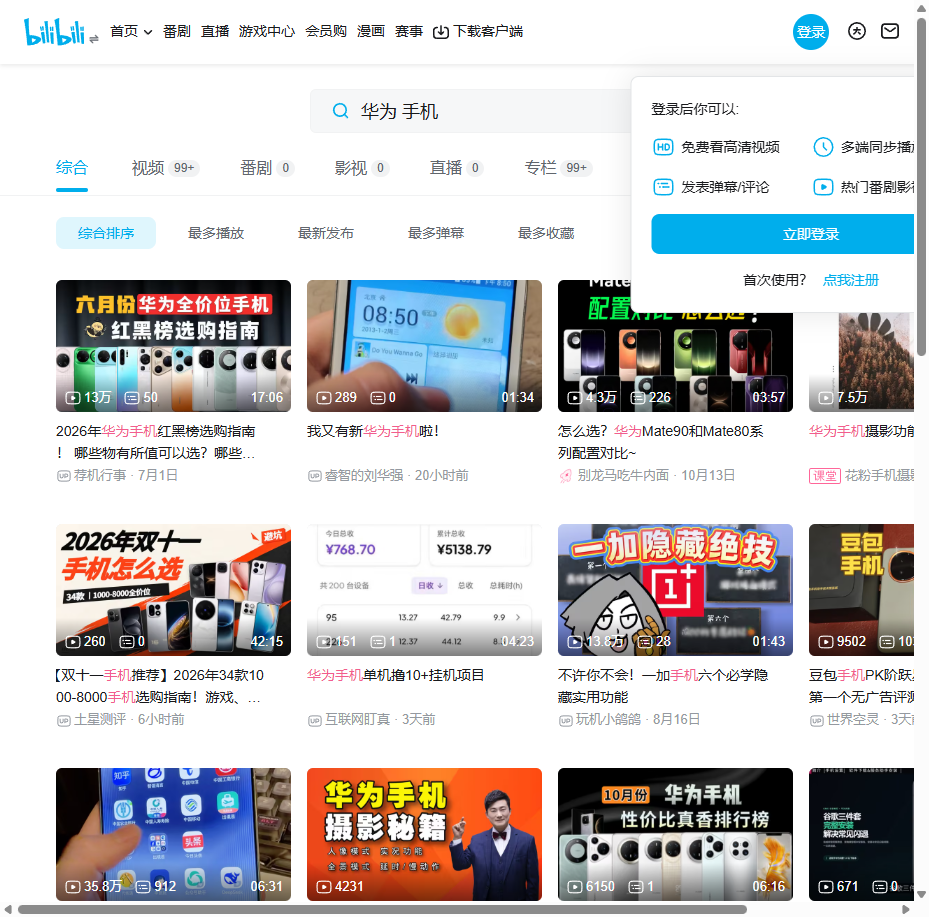
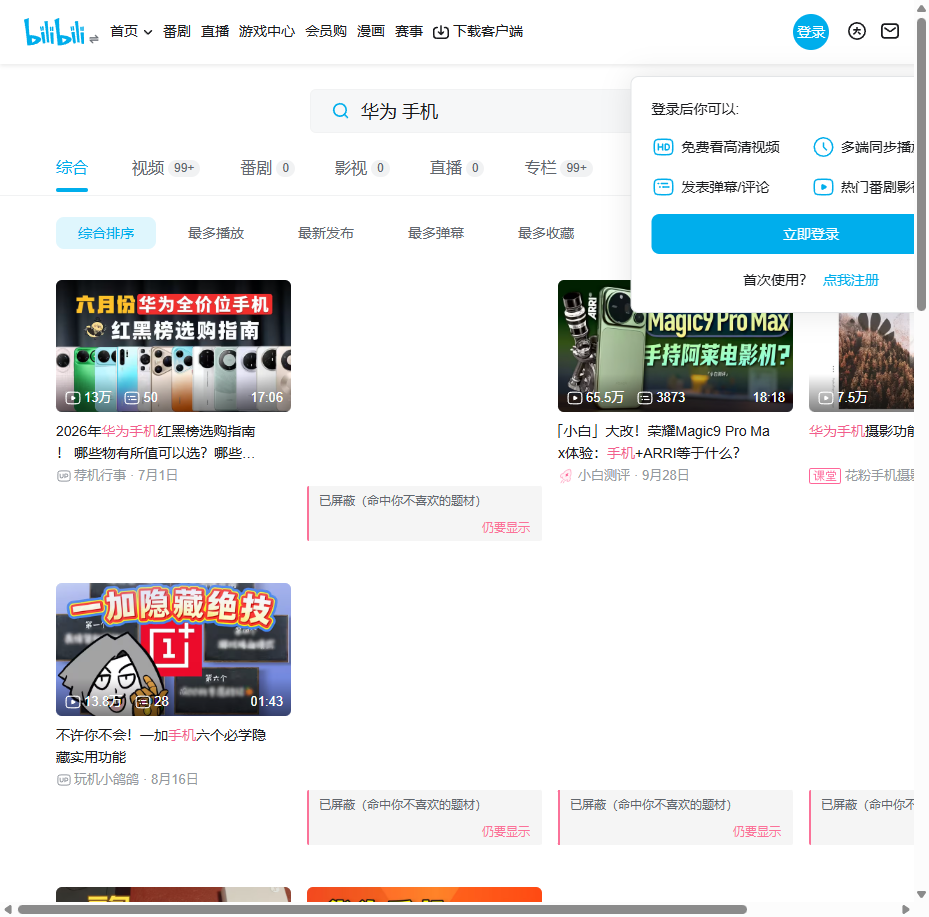
fix: 折叠改成「就地替换」，别在旁边插一条把布局挤歪
早先的实现是把卡片 `display:none` 掉，再把「已屏蔽（理由）/ 仍要显示」
插到**它旁边**。于是那条说明变成了网格里的**另一个单元**——
整排卡片被挤歪、错位，看起来像页面被插件搞乱了。

改成就地替换：卡片留在原来的位置，把它的内容换成说明。
撤销时把原内容还原回去。

顺带修了说明的排版：理由一行放不下时按钮换行右对齐，
不再从中间断字（「命中你不喜欢的题 材」）。

另外这轮补上了**三级闸门里从来没被真机验证过的一级**：
画像匹配（本地、零成本）。冷启动画像需要登录 B 站，
测试环境未登录 → 画像恒为 null → 整条「画像 → 折叠」路径没跑过。
现在用注入画像的方式验了：注入「不喜欢 华为」→ 37 张卡片全部折叠，
理由「命中你不喜欢的题材」，零 LLM 调用，撤销正常。

diff --git a/tests/unit/actions-fold.test.ts b/tests/unit/actions-fold.test.ts
@@ -31,11 +31,25 @@ const verdict: Verdict = {
 };
 
 describe('折叠动作', () => {
-  it('折叠后内容不可见', () => {
+  /**
+   * 折叠是**就地替换**：卡片留在原位，内容换成「理由 + 仍要显示」。
+   *
+   * 早先把卡片 `display:none` 掉、再把说明插到它旁边——
+   * 说明就变成了网格里的另一个单元，整排卡片被挤歪。
+   */
+  it('折叠后原内容不可见', () => {
+    const d = fixture();
+    applyFold(d, '111', verdict, () => {});
+    const content = d.querySelector('.reply-content') as HTMLElement;
+    expect(content.style.display).toBe('none');
+  });
+
+  it('折叠后说明行在原位（不是插在旁边当新单元）', () => {
     const d = fixture();
     applyFold(d, '111', verdict, () => {});
     const el = d.querySelector('.reply-item') as HTMLElement;
-    expect(el.style.display).toBe('none');
+    const notice = d.querySelector(`[data-ab-prefix="${CSS_PREFIX}-notice"]`);
+    expect(notice?.parentElement).toBe(el);
   });
 
   it('插入一条说明行', () => {
@@ -70,8 +84,8 @@ describe('折叠动作', () => {
     applyFold(d, '111', verdict, () => {});
     const btn = d.querySelector(`[data-ab-prefix="${CSS_PREFIX}-revoke"]`) as HTMLElement;
     btn.click();
-    const el = d.querySelector('.reply-item') as HTMLElement;
-    expect(el.style.display).not.toBe('none');
+    const content = d.querySelector('.reply-content') as HTMLElement;
+    expect(content.style.display).not.toBe('none');
   });
 
   it('撤销后说明行被移除', () => {
@@ -101,8 +115,12 @@ describe('折叠动作', () => {
     const ok = applyFold(d, 'BV1xx411c7mD', { ...verdict, itemId: 'BV1xx411c7mD' }, () => {});
     expect(ok).toBe(true);
     const card = d.querySelector('.bili-video-card') as HTMLElement;
-    expect(card.style.display).toBe('none');
+    // 卡片留在原位，内容收起来，说明就地显示
+    expect(card.style.display).not.toBe('none');
+    const link = card.querySelector('a') as HTMLElement;
+    expect(link.style.display).toBe('none');
     expect(d.querySelector(`[data-ab-prefix="${CSS_PREFIX}-notice"]`)?.textContent).toContain('在引战');
+    expect(d.querySelector(`[data-ab-prefix="${CSS_PREFIX}-notice"]`)?.parentElement).toBe(card);
   });
 
   it('视频卡片被折叠后也能撤销', () => {
@@ -112,7 +130,8 @@ describe('折叠动作', () => {
     const btn = d.querySelector(`[data-ab-prefix="${CSS_PREFIX}-revoke"]`) as HTMLElement;
     btn.click();
     expect(onRevoke).toHaveBeenCalledWith('BV1xx411c7mD');
-    expect((d.querySelector('.bili-video-card') as HTMLElement).style.display).not.toBe('none');
+    const link = d.querySelector('.bili-video-card a') as HTMLElement;
+    expect(link.style.display).not.toBe('none');
   });
 
   it('非法 id 不会拼进选择器，直接返回 false', () => {
@@ -124,6 +143,6 @@ describe('折叠动作', () => {
     const d = fixture();
     const body = d.body as HTMLElement;
     expect(applyFold(body, '111', verdict, () => {})).toBe(true);
-    expect((d.querySelector('.reply-item') as HTMLElement).style.display).toBe('none');
+    expect((d.querySelector('.reply-content') as HTMLElement).style.display).toBe('none');
   });
 });

diff --git a/src/actions/fold.ts b/src/actions/fold.ts
@@ -14,18 +14,19 @@ export function injectStyles(root: ParentNode): void {
   style.setAttribute('data-ab-prefix', STYLE_ID);
   style.textContent = `
 .${CSS_PREFIX}-notice {
-  display: flex; align-items: center; gap: 8px;
-  padding: 4px 10px; margin: 2px 0;
+  display: flex; flex-wrap: wrap; align-items: center; gap: 8px;
+  padding: 6px 10px; margin: 2px 0;
   font-size: 12px; line-height: 1.6;
   color: #61666d;
   background: rgba(0,0,0,.04);
   border-left: 2px solid #fb7299;
   border-radius: 2px;
 }
-.${CSS_PREFIX}-notice-reason { flex: 1; }
+.${CSS_PREFIX}-notice-reason { flex: 1 1 auto; min-width: 0; }
 .${CSS_PREFIX}-revoke {
   cursor: pointer; border: 0; background: transparent;
   color: #fb7299; font-size: 12px; padding: 0 2px;
+  margin-left: auto; flex: 0 0 auto;
 }
 .${CSS_PREFIX}-revoke:hover { text-decoration: underline; }
 .${CSS_PREFIX}-mark {
@@ -135,7 +136,11 @@ export function resolveTarget(root: ParentNode, itemId: string): Element | null 
 /**
  * 折叠一条内容，并插入「理由 + 仍要显示」。
  *
- * 点「仍要显示」→ 恢复可见 + 调用 onRevoke（上层写白名单）。
+ * **就地替换，不在旁边插一条**：把卡片藏掉、再把说明插到它旁边，
+ * 说明就变成了网格里的**另一个单元**——整排卡片会被挤歪、错位。
+ * 所以这里改成：卡片留在原来的位置，把它的内容换成「理由 + 仍要显示」。
+ *
+ * 点「仍要显示」→ 恢复原来的内容 + 调用 onRevoke（上层写白名单）。
  */
 export function applyFold(
   root: ParentNode,
@@ -150,11 +155,18 @@ export function applyFold(
   injectStyles(doc);
 
   const el = target as HTMLElement;
-  el.style.display = 'none';
 
   // 已经插过说明就不重复
   if (doc.querySelector(`[data-ab-prefix="${CSS_PREFIX}-notice"][data-item-id="${itemId}"]`)) {
     return true;
+  }
+
+  // 把原内容收起来（记住原样，撤销时要还原）
+  const hidden: HTMLElement[] = [];
+  for (const child of Array.from(el.children)) {
+    if (child.getAttribute('data-ab-prefix') === `${CSS_PREFIX}-notice`) continue;
+    hidden.push(child as HTMLElement);
+    (child as HTMLElement).style.display = 'none';
   }
 
   const notice = doc.createElement('div');
@@ -173,13 +185,13 @@ export function applyFold(
   btn.addEventListener('click', (e) => {
     e.preventDefault();
     e.stopPropagation();
-    el.style.display = '';
+    for (const c of hidden) c.style.display = '';
     notice.remove();
     onRevoke(itemId);
   });
 
   notice.appendChild(reason);
   notice.appendChild(btn);
-  el.parentNode?.insertBefore(notice, el);
+  el.appendChild(notice);
   return true;
 }

diff --git a/scripts/e2e-verify.ts b/scripts/e2e-verify.ts
@@ -149,6 +149,22 @@ async function main(): Promise<void> {
   const injected = await popupCdp.eval(`(async () => {
     await chrome.storage.local.set({ llmConfig: ${JSON.stringify(cfg)} });
     await chrome.storage.local.remove(['verdictCache', 'wordlistCache', 'blockedLog', 'profile']);
+    // 注入一份画像（可选）：验证「画像 → 折叠」这条路径——
+    // 冷启动画像需要登录 B 站，测试环境未登录，只能用注入的方式验。
+    const injectProfile = ${JSON.stringify(process.env.INJECT_PROFILE ?? '')};
+    if (injectProfile) {
+      const dislikes = injectProfile.split(',').map(s => s.trim()).filter(Boolean);
+      await chrome.storage.local.set({
+        profile: {
+          interests: [{ tag: '数码', weight: 0.8 }],
+          dislikes,
+          stanceHints: {},
+          topics: ['手机'],
+          updatedAt: new Date().toISOString(),
+          sampleCount: 10,
+        },
+      });
+    }
     // 模式切换（cocoon=信息茧房 / anti=反信息茧房）
     await new Promise((resolve) => {
       chrome.runtime.sendMessage(
@@ -166,9 +182,9 @@ async function main(): Promise<void> {
         () => { void chrome.runtime.lastError; resolve(null); },
       );
     });
-    const st = await chrome.storage.local.get(['llmConfig', 'settings']);
+    const st = await chrome.storage.local.get(['llmConfig', 'settings', 'profile']);
     const c = st['llmConfig'];
-    return JSON.stringify({ model: c.model, baseUrl: c.baseUrl, maxTokens: c.maxTokens, keyLen: (c.apiKey||'').length, mode: st['settings']?.mode });
+    return JSON.stringify({ model: c.model, baseUrl: c.baseUrl, maxTokens: c.maxTokens, keyLen: (c.apiKey||'').length, mode: st['settings']?.mode, profileDislikes: st['profile']?.dislikes ?? null });
   })()`);
   log('LLM 配置已注入: ' + injected);
   popupCdp.close();

diff --git a/tests/unit/content-controller.test.ts b/tests/unit/content-controller.test.ts
@@ -159,7 +159,8 @@ describe('页面控制器', () => {
       send, settings: settings(), root: d,
     });
     await c.start();
-    expect((d.querySelector('.reply-item') as HTMLElement).style.display).toBe('none');
+    // 折叠是就地替换：原内容收起来，说明就地显示
+    expect((d.querySelector('.reply-content') as HTMLElement).style.display).toBe('none');
     expect(d.querySelector('[data-ab-prefix="ab-notice"]')?.textContent).toContain('在引战');
   });
 
@@ -187,7 +188,7 @@ describe('页面控制器', () => {
     const btn = d.querySelector('[data-ab-prefix="ab-revoke"]') as HTMLElement;
     btn.click();
     expect(onRevoke).toHaveBeenCalledWith('111');
-    expect((d.querySelector('.reply-item') as HTMLElement).style.display).not.toBe('none');
+    expect((d.querySelector('.reply-content') as HTMLElement).style.display).not.toBe('none');
   });
 
   it('后台抛错时静默降级，不影响页面', async () => {
